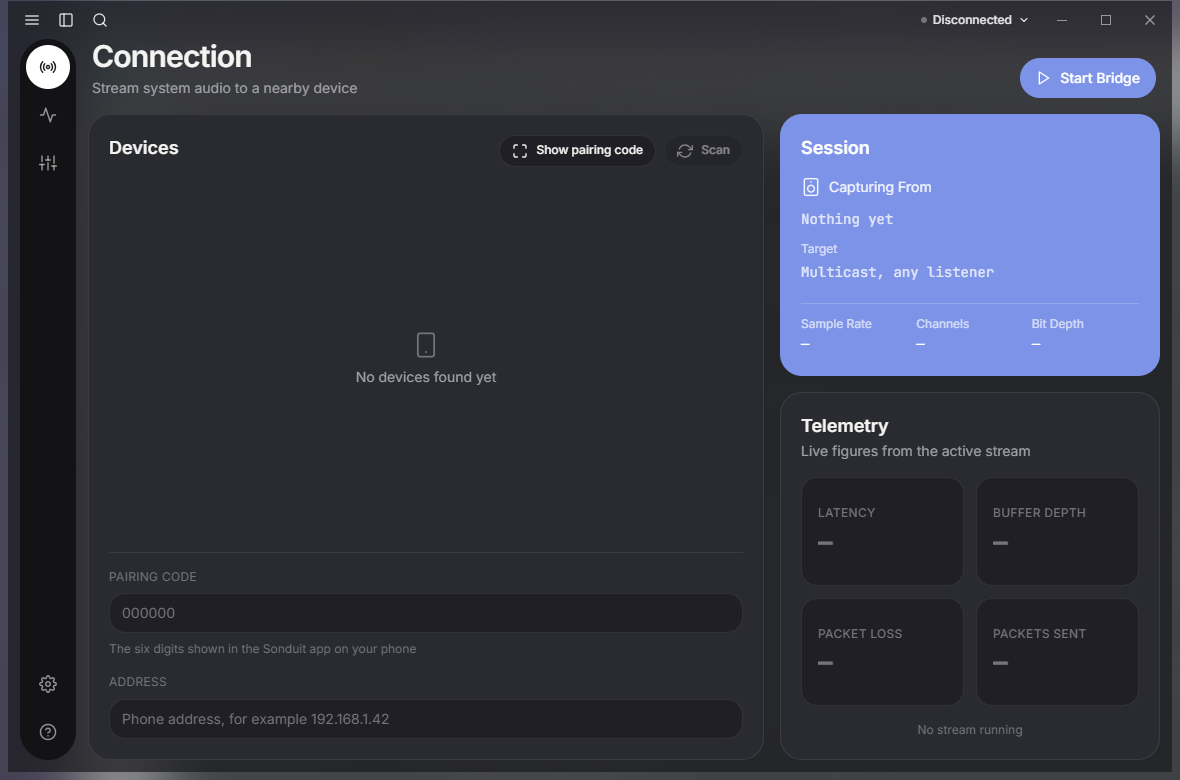
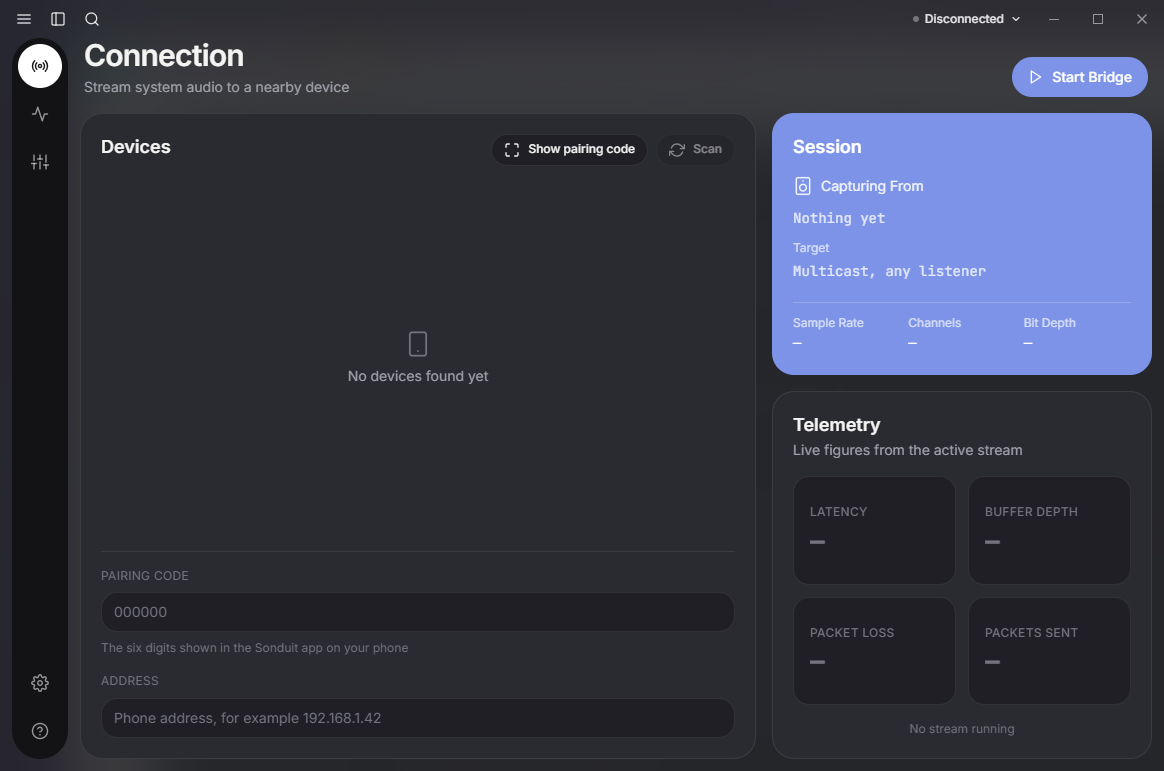
docs: give the readme a front page, and crop the screenshots
The page opened with a heavy Status section, so a reader arriving cold met
the caveats before they met the product. What it is, a picture, how to run
it, then the state of things.

Nothing was softened to do it. Every measurement and every caveat is
still there, still in the same words: the three latency fixes are still
"believed to work and are not known to work", and no latency figure in
the repository is still not a measurement.

The screenshots carried the Windows invisible resize frame -- eight pixels
each side, one at the top -- composited against the desktop wallpaper, so
it read as a dead strip rather than as anything. Cropped to the surface.

diff --git a/README.md b/README.md
@@ -2,25 +2,113 @@
 
 Low latency system audio bridge from Windows to Android.
 
-![Platform](https://img.shields.io/badge/platform-Windows%20%7C%20Android-blue)
-![License](https://img.shields.io/badge/license-MIT-green)
-![Version](https://img.shields.io/badge/version-2.0.0-brightgreen)
+![Platform](https://img.shields.io/badge/platform-Windows%20%7C%20Android-blue) ![License](https://img.shields.io/badge/license-MIT-green) ![Version](https://img.shields.io/badge/version-1.1.0-brightgreen)
 
-Sonduit sends what your PC is playing to a phone on the same network, over
-Wi-Fi or over a USB cable, and plays it there with as little delay as the two
-operating systems allow.
+Sonduit turns an Android phone into an output device for a Windows PC. What the
+PC is playing goes to a phone on the same network, over Wi-Fi or over a USB
+cable, and comes out there with as little delay as the two operating systems
+allow.
+
+It is a Rust workspace with a Tauri desktop app and a Kotlin and Compose Android
+app on top of a shared core that has no platform dependencies at all.
+
+**It is not finished.** The [Status](#status) section below says exactly how far
+it has got, and is blunt about the difference between what has been measured and
+what has only been reasoned about.
 
 ![The connection screen](docs/screenshots/connection.png)
 
-The editor Harmonix SE was built around is still here, on its own screen.
+## What it does
 
-![The audio processing suite](docs/screenshots/editor.png)
+- **Captures system audio, not the microphone.** WASAPI loopback takes whatever
+  Windows is already playing. There is no virtual cable to install and nothing
+  to route by hand.
+- **Sends it over Wi-Fi or over a USB cable.** The same UDP path either way.
+- **Speaks the Scream wire protocol.** Documented byte for byte in
+  [docs/protocol.md](docs/protocol.md), derived from MS-PL driver source.
+- **Buffers, corrects drift and resamples in a shared core.** The jitter and
+  drift logic is one piece of Rust, compiled into both the desktop app and the
+  Android app rather than written twice.
+- **Pairs before it streams.** A six digit code shown on the phone, or a QR
+  code, so an unpaired device cannot be picked by accident.
+- **Finds devices on the network** rather than making you type an address,
+  though an address can be typed.
+- **Shows live telemetry.** Latency, buffer depth, packet loss and packets sent,
+  on their own screen.
+- **Carries an audio editor.** Convert, master, trim and modify files through a
+  bundled FFmpeg.
+- **Speaks eleven interface languages.**
+
+Read that list against [Status](#status) before trusting any of it: the parts
+that have been exercised on real hardware and the parts that have not are listed
+there separately, and the difference is large.
+
+## Running it
+
+**No release has been published yet.** There is no installer and no APK to
+download. Nothing has been tagged `release-v*`, so the only way to run Sonduit
+today is to build both ends from source.
+[docs/roadmap.md](docs/roadmap.md) lists what stands between here and a first
+release, riskiest first.
+
+From a clone of this repository, the shared core and the transport need nothing
+but Rust:
+
+```bash
+cargo test --workspace
+```
+
+The desktop app additionally needs Node.js and the Windows C++ toolchain:
+
+```bash
+cd desktop
+npm ci
+npm run tauri dev
+```
+
+The phone end is the Gradle project under `android/`. Full toolchain
+requirements for both are in [Building](#building).
+
+A physical device is required to judge anything about latency. An emulator is
+enough to prove the app starts and no more.
 
 ## Status
 
-**Both ends are built. Neither has been heard.**
+**Audio has been heard. It has not been measured since it was fixed.**
 
-What exists and is verified on a machine:
+### Heard once, and not measured since
+
+Sonduit has run on a physical Android phone over USB tethering, and sound came
+out of it. It was also wrong, in two ways that were diagnosed from that
+session: the latency the receiver reported swung between roughly 20 and 60 ms
+on a repeating cycle, and the audio crackled at the bottom of each swing. Both
+are understood, and three fixes for them are in the tree.
+
+**None of those three fixes has been run on the phone.** They are believed to
+work and are not known to work:
+
+- **The sender declares which link it is on.** Flag bit 0 of the packet header,
+  `FLAG_WIRED_LINK` in `crates/sonduit-core/src/packet.rs`. The receiver had
+  been guessing from the source address, on the assumption that USB tethering
+  means 192.168.42/24; the phone handed out 10.114.89.x, so a wired link was
+  sized as Wi-Fi and held 30 ms of buffer where 10 would do.
+- **The tethered adapter is identified properly.** The sender asks the routing
+  table rather than the address range, and the driver-name match was wrong on
+  the two commonest cases: Windows writes "Remote NDIS" with a space and
+  `UsbNcm` as one word, so the tokens being matched found nothing at all.
+- **The jitter buffer drains at the rate packets arrive.** One packet out per
+  packet in, plus a little to make up a genuinely short queue, instead of up to
+  three. Draining faster emptied the buffer; an empty buffer stops, refills to
+  its target and releases the lot in a burst, which is the swing, and the
+  starve at the bottom of each cycle fed concealment into audio that had
+  arrived intact, which is the crackle.
+
+So the swing and the crackle should be gone, and nobody has listened since.
+**No latency figure in this repository is a measurement.** Every number in
+[docs/latency-budget.md](docs/latency-budget.md) is still arithmetic, and the
+20-60 ms above describes the fault that was fixed, not the product.
+
+### What exists and is verified on a machine
 
 - **Windows capture.** WASAPI loopback with a silent render stream to keep the
   engine clocking. Three seconds of wall time produces exactly 144000 frames at
@@ -31,23 +119,30 @@ What exists and is verified on a machine:
   arrives and writes a WAV. Three seconds: 501 datagrams sent, 501 received,
   none malformed, none lost.
 - **The Android app.** Compose UI, a `mediaPlayback` foreground service, AAudio
-  output, and a receive path tested against real UDP sockets. The debug APK
-  assembles with the Rust library inside it.
+  output, and a receive path tested against real UDP sockets. It has run on a
+  device and played audio.
 - **Drift correction that works.** A simulated ten-minute session at 50 ppm,
   which empties an uncorrected buffer completely, settles within 3 ms of target
   in both directions.
 - **The audio editor.** Convert, master, trim and modify, run through a bundled
   LGPL FFmpeg. Every mode was verified against the real binary.
-- 196 Rust tests, full CI, release automation and language linting.
+- 336 Rust tests, all green on `cargo test --workspace`, plus full CI,
+  release automation and language linting.
 
-What has not been done:
+### What has not been done
 
-- **No audio has ever been played through this.** There is no Android device
-  here. Every latency figure below is a budget, not a measurement, and whether
-  AAudio grants exclusive low-latency mode on any real phone is unknown. See
+- **Nothing has been measured on hardware.** No loopback-cable timing, no
+  round-trip figure, and no record of whether AAudio granted exclusive
+  low-latency mode on the phone that played. The app reports the granted
+  sharing mode and the burst size, so the next session on a device answers most
+  of this; until then every figure below is a budget. See
   [docs/environment.md](docs/environment.md).
-- **USB tethering has never been tried.** Carrier entitlement can veto it, and
-  that is the largest risk to [ADR-004](docs/adr/ADR-004-transport.md).
+- **Wi-Fi has not been heard.** The session that produced sound was over USB
+  tethering. The Wi-Fi path shares everything but the interface it binds, and
+  that is an argument, not evidence.
+- **Tethering has been tried on one phone.** Carrier entitlement can veto USB
+  tethering, and OEM builds differ. That remains the largest risk to
+  [ADR-004](docs/adr/ADR-004-transport.md).
 - **The audio is not encrypted.** Pairing stops an unpaired device being
   chosen, so nobody receives the stream by accident. It does nothing about
   anyone who can already see the traffic: the PCM is in the clear on the wire
@@ -67,6 +162,12 @@ What has not been done:
 
 Bluetooth is explicitly out of scope as a transport.
 
+## The audio editor
+
+The editor Harmonix SE was built around is still here, on its own screen.
+
+![The audio processing suite](docs/screenshots/editor.png)
+
 ## Layout
 
 ```text
@@ -78,7 +179,7 @@ crates/
   sonduit-ffi/                UniFFI surface for the Android app
 desktop/                      Tauri v2 app: src/ React frontend, src-tauri/ Rust shell
 android/                      Gradle project: Kotlin and Compose, Rust through UniFFI
-driver/                       vendored driver and install scripts (empty, see ADR-002)
+driver/                       vendored driver and install scripts, if one ever ships (ADR-002)
 docs/                         architecture decisions, research, protocol, budget
 tools/                        linting and version derivation
 ```
